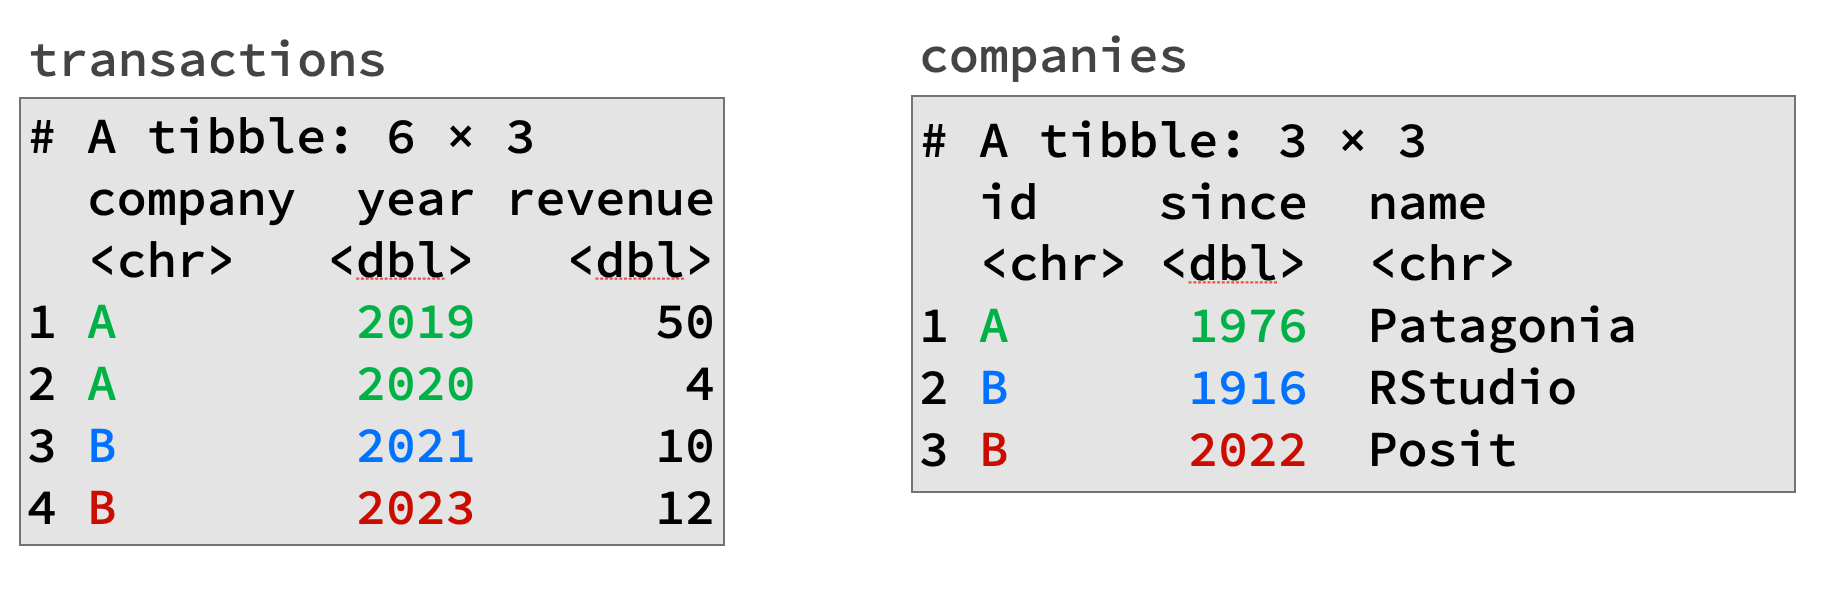
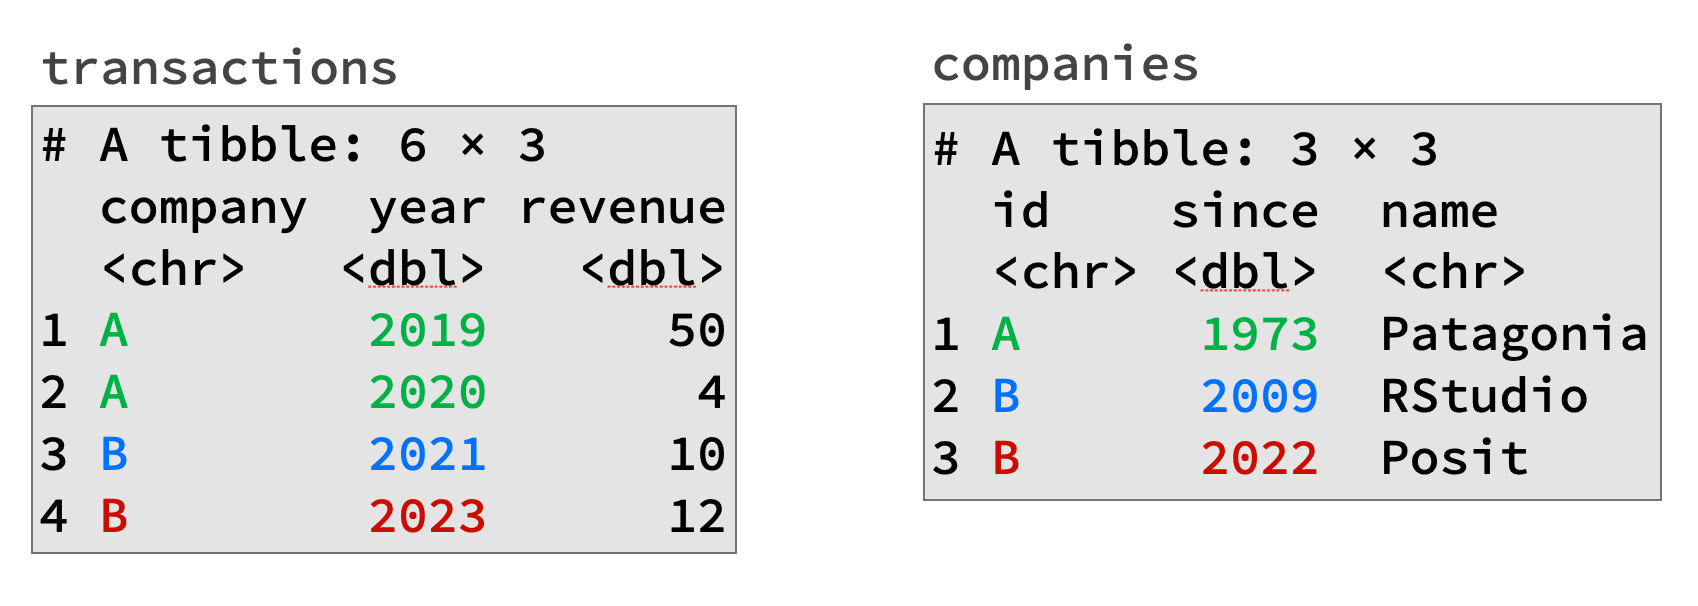
Another round of revisions

diff --git a/content/blog/dplyr-1-1-0-joins/index.md b/content/blog/dplyr-1-1-0-joins/index.md
@@ -2,38 +2,24 @@
 output: hugodown::hugo_document
 slug: dplyr-1-1-0-joins
 title: "dplyr 1.1.0: Joins"
-date: 2023-01-30
+date: 2023-01-31
 author: Davis Vaughan
 description: >
     In dplyr 1.1.0, joins have been greatly reworked, introducing: a new way to
     specify join columns, various new types of joins, and two new quality
     control arguments.
 photo:
-  url: https://unsplash.com/photos/n6vS3xlnsCc
-  author: Kelley Bozarth
-# one of: "deep-dive", "learn", "package", "programming", "roundup", or "other"
+  url: https://unsplash.com/photos/Cecb0_8Hx-o
+  author: Duy Pham
 categories: [package] 
-tags: []
+tags: [dplyr]
 editor_options: 
   chunk_output_type: console
-rmd_hash: 7cff9ace70674e94
+rmd_hash: 9b31d03464d70f53
 
 ---
 
-<!--
-TODO:
-* [ ] Look over / edit the post's title in the yaml
-* [ ] Edit (or delete) the description; note this appears in the Twitter card
-* [ ] Pick category and tags (see existing with [`hugodown::tidy_show_meta()`](https://rdrr.io/pkg/hugodown/man/use_tidy_post.html))
-* [ ] Find photo & update yaml metadata
-* [ ] Create `thumbnail-sq.jpg`; height and width should be equal
-* [ ] Create `thumbnail-wd.jpg`; width should be >5x height
-* [ ] [`hugodown::use_tidy_thumbnails()`](https://rdrr.io/pkg/hugodown/man/use_tidy_post.html)
-* [ ] Add intro sentence, e.g. the standard tagline for the package
-* [ ] [`usethis::use_tidy_thanks()`](https://rdrr.io/pkg/usethis/man/use_tidy_thanks.html)
--->
-
-dplyr 1.1.0 is out now! In this post, we will discuss various new updates to joins.
+dplyr 1.1.0 is out now! This is post 1 of 4 detailing some of the new features in this release. In this post, we will discuss various new updates to dplyr's joins.
 
 You can install it from CRAN with:
 
@@ -69,7 +55,6 @@ Consider the following two tables, `transactions` and `companies`. `transactions
 <span><span class='c'>#&gt; <span style='color: #555555;'>3</span> B        <span style='text-decoration: underline;'>2</span>021      10</span></span>
 <span><span class='c'>#&gt; <span style='color: #555555;'>4</span> B        <span style='text-decoration: underline;'>2</span>023      12</span></span>
 <span></span><span></span>
-<span><span class='c'># TODO: Figure out RStudio initial year</span></span>
 <span><span class='nv'>companies</span> <span class='o'>&lt;-</span> <span class='nf'><a href='https://rdrr.io/pkg/tibble/man/tibble.html'>tibble</a></span><span class='o'>(</span></span>
 <span>  id <span class='o'>=</span> <span class='nf'><a href='https://rdrr.io/r/base/c.html'>c</a></span><span class='o'>(</span><span class='s'>"A"</span>, <span class='s'>"B"</span><span class='o'>)</span>,</span>
 <span>  name <span class='o'>=</span> <span class='nf'><a href='https://rdrr.io/r/base/c.html'>c</a></span><span class='o'>(</span><span class='s'>"Patagonia"</span>, <span class='s'>"RStudio"</span><span class='o'>)</span></span>
@@ -137,10 +122,9 @@ To make things a little more interesting, we'll add one more column to `companie
 
 <div class="highlight">
 
-<pre class='chroma'><code class='language-r' data-lang='r'><span><span class='c'># TODO: Figure out RStudio and Patagonia initial year</span></span>
-<span><span class='nv'>companies</span> <span class='o'>&lt;-</span> <span class='nf'><a href='https://rdrr.io/pkg/tibble/man/tibble.html'>tibble</a></span><span class='o'>(</span></span>
+<pre class='chroma'><code class='language-r' data-lang='r'><span><span class='nv'>companies</span> <span class='o'>&lt;-</span> <span class='nf'><a href='https://rdrr.io/pkg/tibble/man/tibble.html'>tibble</a></span><span class='o'>(</span></span>
 <span>  id <span class='o'>=</span> <span class='nf'><a href='https://rdrr.io/r/base/c.html'>c</a></span><span class='o'>(</span><span class='s'>"A"</span>, <span class='s'>"B"</span>, <span class='s'>"B"</span><span class='o'>)</span>,</span>
-<span>  since <span class='o'>=</span> <span class='nf'><a href='https://rdrr.io/r/base/c.html'>c</a></span><span class='o'>(</span><span class='m'>1976</span>, <span class='m'>2010</span>, <span class='m'>2022</span><span class='o'>)</span>,</span>
+<span>  since <span class='o'>=</span> <span class='nf'><a href='https://rdrr.io/r/base/c.html'>c</a></span><span class='o'>(</span><span class='m'>1973</span>, <span class='m'>2009</span>, <span class='m'>2022</span><span class='o'>)</span>,</span>
 <span>  name <span class='o'>=</span> <span class='nf'><a href='https://rdrr.io/r/base/c.html'>c</a></span><span class='o'>(</span><span class='s'>"Patagonia"</span>, <span class='s'>"RStudio"</span>, <span class='s'>"Posit"</span><span class='o'>)</span></span>
 <span><span class='o'>)</span></span>
 <span></span>
@@ -148,14 +132,14 @@ To make things a little more interesting, we'll add one more column to `companie
 <span><span class='c'>#&gt; <span style='color: #555555;'># A tibble: 3 × 3</span></span></span>
 <span><span class='c'>#&gt;   id    since name     </span></span>
 <span><span class='c'>#&gt;   <span style='color: #555555; font-style: italic;'>&lt;chr&gt;</span> <span style='color: #555555; font-style: italic;'>&lt;dbl&gt;</span> <span style='color: #555555; font-style: italic;'>&lt;chr&gt;</span>    </span></span>
-<span><span class='c'>#&gt; <span style='color: #555555;'>1</span> A      <span style='text-decoration: underline;'>1</span>976 Patagonia</span></span>
-<span><span class='c'>#&gt; <span style='color: #555555;'>2</span> B      <span style='text-decoration: underline;'>2</span>010 RStudio  </span></span>
+<span><span class='c'>#&gt; <span style='color: #555555;'>1</span> A      <span style='text-decoration: underline;'>1</span>973 Patagonia</span></span>
+<span><span class='c'>#&gt; <span style='color: #555555;'>2</span> B      <span style='text-decoration: underline;'>2</span>009 RStudio  </span></span>
 <span><span class='c'>#&gt; <span style='color: #555555;'>3</span> B      <span style='text-decoration: underline;'>2</span>022 Posit</span></span>
 <span></span></code></pre>
 
 </div>
 
-This table now also tracks name changes that have happened over the course of a company's history. In 2022, we changed our name from RStudio to Posit, so we've tracked that as an additional row in our dataset. Note that both RStudio and Posit are given an `id` of `"B"`, which links back to the `transactions` table.
+This table now also tracks name changes that have happened over the course of a company's history. In 2022, we changed our name from RStudio to Posit, so we've tracked that as an additional row in our dataset. Note that both RStudio and Posit are given an `id` of `B`, which links back to the `transactions` table.
 
 If we were to join these two tables together, ideally we'd bring over the name that was in effect when the transaction took place. For example, for the transaction in 2021, the company was still RStudio, so ideally we'd only match up against the RStudio row in `companies`. If we colored the expected matches, they'd look something like this:
 
@@ -176,17 +160,17 @@ How can we do this? We can try the same join from before, but we won't like the 
 <span><span class='c'>#&gt; <span style='color: #555555;'># A tibble: 6 × 5</span></span></span>
 <span><span class='c'>#&gt;   company  year revenue since name     </span></span>
 <span><span class='c'>#&gt;   <span style='color: #555555; font-style: italic;'>&lt;chr&gt;</span>   <span style='color: #555555; font-style: italic;'>&lt;dbl&gt;</span>   <span style='color: #555555; font-style: italic;'>&lt;dbl&gt;</span> <span style='color: #555555; font-style: italic;'>&lt;dbl&gt;</span> <span style='color: #555555; font-style: italic;'>&lt;chr&gt;</span>    </span></span>
-<span><span class='c'>#&gt; <span style='color: #555555;'>1</span> A        <span style='text-decoration: underline;'>2</span>019      50  <span style='text-decoration: underline;'>1</span>976 Patagonia</span></span>
-<span><span class='c'>#&gt; <span style='color: #555555;'>2</span> A        <span style='text-decoration: underline;'>2</span>020       4  <span style='text-decoration: underline;'>1</span>976 Patagonia</span></span>
-<span><span class='c'>#&gt; <span style='color: #555555;'>3</span> B        <span style='text-decoration: underline;'>2</span>021      10  <span style='text-decoration: underline;'>2</span>010 RStudio  </span></span>
+<span><span class='c'>#&gt; <span style='color: #555555;'>1</span> A        <span style='text-decoration: underline;'>2</span>019      50  <span style='text-decoration: underline;'>1</span>973 Patagonia</span></span>
+<span><span class='c'>#&gt; <span style='color: #555555;'>2</span> A        <span style='text-decoration: underline;'>2</span>020       4  <span style='text-decoration: underline;'>1</span>973 Patagonia</span></span>
+<span><span class='c'>#&gt; <span style='color: #555555;'>3</span> B        <span style='text-decoration: underline;'>2</span>021      10  <span style='text-decoration: underline;'>2</span>009 RStudio  </span></span>
 <span><span class='c'>#&gt; <span style='color: #555555;'>4</span> B        <span style='text-decoration: underline;'>2</span>021      10  <span style='text-decoration: underline;'>2</span>022 Posit    </span></span>
-<span><span class='c'>#&gt; <span style='color: #555555;'>5</span> B        <span style='text-decoration: underline;'>2</span>023      12  <span style='text-decoration: underline;'>2</span>010 RStudio  </span></span>
+<span><span class='c'>#&gt; <span style='color: #555555;'>5</span> B        <span style='text-decoration: underline;'>2</span>023      12  <span style='text-decoration: underline;'>2</span>009 RStudio  </span></span>
 <span><span class='c'>#&gt; <span style='color: #555555;'>6</span> B        <span style='text-decoration: underline;'>2</span>023      12  <span style='text-decoration: underline;'>2</span>022 Posit</span></span>
 <span></span></code></pre>
 
 </div>
 
-Company `A` matches correctly, but since we only joined on the company id, we get *multiple matches* for each of company `B`'s transactions and end up with more rows than we started with. This is a problem, as we were expecting a 1:1 match for each row in `transactions`. Multiple matches in equality joins like this one are typically unexpected -- in fact, many people don't even know this is possible even though it is technically default SQL behavior -- so we've also added a new warning to alert you when this happens. If multiple matches are expected, explicitly set `multiple = "all"` to silence this warning. If multiple matches *aren't* expected, you can also set `multiple = "error"` to immediately halt the analysis. We expect this will be useful as a quality control check for production code where you might rerun analyses with new data on a rolling basis.
+Company `A` matches correctly, but since we only joined on the company id, we get *multiple matches* for each of company `B`'s transactions and end up with more rows than we started with. This is a problem, as we were expecting a 1:1 match for each row in `transactions`. Multiple matches in equality joins like this one are typically unexpected -- in fact, many people don't even know this is possible even though it is technically default SQL behavior -- so we've also added a new warning to alert you when this happens. If multiple matches are expected, explicitly set `multiple = "all"` to silence this warning. This also serves as a code "sign post" for future readers of your code to let them know that this is a join that is expected to increase the number of rows in the data. If multiple matches *aren't* expected, you can also set `multiple = "error"` to immediately halt the analysis. We expect this will be useful as a quality control check for production code where you might rerun analyses with new data on a rolling basis.
 
 To actually fix this issue, we'll need to expand our join specification to include another condition. Let's zoom in to just 2021:
 
@@ -196,18 +180,18 @@ To actually fix this issue, we'll need to expand our join specification to inclu
 <span><span class='c'>#&gt; <span style='color: #555555;'># A tibble: 2 × 5</span></span></span>
 <span><span class='c'>#&gt;   company  year revenue since name   </span></span>
 <span><span class='c'>#&gt;   <span style='color: #555555; font-style: italic;'>&lt;chr&gt;</span>   <span style='color: #555555; font-style: italic;'>&lt;dbl&gt;</span>   <span style='color: #555555; font-style: italic;'>&lt;dbl&gt;</span> <span style='color: #555555; font-style: italic;'>&lt;dbl&gt;</span> <span style='color: #555555; font-style: italic;'>&lt;chr&gt;</span>  </span></span>
-<span><span class='c'>#&gt; <span style='color: #555555;'>1</span> B        <span style='text-decoration: underline;'>2</span>021      10  <span style='text-decoration: underline;'>2</span>010 RStudio</span></span>
+<span><span class='c'>#&gt; <span style='color: #555555;'>1</span> B        <span style='text-decoration: underline;'>2</span>021      10  <span style='text-decoration: underline;'>2</span>009 RStudio</span></span>
 <span><span class='c'>#&gt; <span style='color: #555555;'>2</span> B        <span style='text-decoration: underline;'>2</span>021      10  <span style='text-decoration: underline;'>2</span>022 Posit</span></span>
 <span></span></code></pre>
 
 </div>
 
-In this case, we wanted a match with RStudio, but not with Posit (because the name hasn't changed yet). One way to express this is by using the `year` and `since` columns to state that you only want a match if the transaction `year` occurred *after* a name change:
+We want to retain the match with RStudio, but not with Posit (because the name hasn't changed yet). One way to express this is by using the `year` and `since` columns to state that you only want a match if the transaction `year` occurred *after* a name change:
 
 <div class="highlight">
 
 <pre class='chroma'><code class='language-r' data-lang='r'><span><span class='c'># `year[i] &gt;= since`?</span></span>
-<span><span class='m'>2021</span> <span class='o'>&gt;=</span> <span class='m'>2010</span></span>
+<span><span class='m'>2021</span> <span class='o'>&gt;=</span> <span class='m'>2009</span></span>
 <span><span class='c'>#&gt; [1] TRUE</span></span>
 <span></span><span><span class='m'>2021</span> <span class='o'>&gt;=</span> <span class='m'>2022</span></span>
 <span><span class='c'>#&gt; [1] FALSE</span></span>
@@ -215,7 +199,7 @@ In this case, we wanted a match with RStudio, but not with Posit (because the na
 
 </div>
 
-These expressions return results that correspond with the matches we actually want for 2021. With [`join_by()`](https://rdrr.io/pkg/dplyr/man/join_by.html), we can now express this inequality directly inside the join specification:
+Because [`join_by()`](https://rdrr.io/pkg/dplyr/man/join_by.html) accepts expressions, we can express this inequality directly inside the join specification:
 
 <div class="highlight">
 
@@ -234,10 +218,10 @@ These expressions return results that correspond with the matches we actually wa
 <span><span class='c'>#&gt; <span style='color: #555555;'># A tibble: 5 × 5</span></span></span>
 <span><span class='c'>#&gt;   company  year revenue since name     </span></span>
 <span><span class='c'>#&gt;   <span style='color: #555555; font-style: italic;'>&lt;chr&gt;</span>   <span style='color: #555555; font-style: italic;'>&lt;dbl&gt;</span>   <span style='color: #555555; font-style: italic;'>&lt;dbl&gt;</span> <span style='color: #555555; font-style: italic;'>&lt;dbl&gt;</span> <span style='color: #555555; font-style: italic;'>&lt;chr&gt;</span>    </span></span>
-<span><span class='c'>#&gt; <span style='color: #555555;'>1</span> A        <span style='text-decoration: underline;'>2</span>019      50  <span style='text-decoration: underline;'>1</span>976 Patagonia</span></span>
-<span><span class='c'>#&gt; <span style='color: #555555;'>2</span> A        <span style='text-decoration: underline;'>2</span>020       4  <span style='text-decoration: underline;'>1</span>976 Patagonia</span></span>
-<span><span class='c'>#&gt; <span style='color: #555555;'>3</span> B        <span style='text-decoration: underline;'>2</span>021      10  <span style='text-decoration: underline;'>2</span>010 RStudio  </span></span>
-<span><span class='c'>#&gt; <span style='color: #555555;'>4</span> B        <span style='text-decoration: underline;'>2</span>023      12  <span style='text-decoration: underline;'>2</span>010 RStudio  </span></span>
+<span><span class='c'>#&gt; <span style='color: #555555;'>1</span> A        <span style='text-decoration: underline;'>2</span>019      50  <span style='text-decoration: underline;'>1</span>973 Patagonia</span></span>
+<span><span class='c'>#&gt; <span style='color: #555555;'>2</span> A        <span style='text-decoration: underline;'>2</span>020       4  <span style='text-decoration: underline;'>1</span>973 Patagonia</span></span>
+<span><span class='c'>#&gt; <span style='color: #555555;'>3</span> B        <span style='text-decoration: underline;'>2</span>021      10  <span style='text-decoration: underline;'>2</span>009 RStudio  </span></span>
+<span><span class='c'>#&gt; <span style='color: #555555;'>4</span> B        <span style='text-decoration: underline;'>2</span>023      12  <span style='text-decoration: underline;'>2</span>009 RStudio  </span></span>
 <span><span class='c'>#&gt; <span style='color: #555555;'>5</span> B        <span style='text-decoration: underline;'>2</span>023      12  <span style='text-decoration: underline;'>2</span>022 Posit</span></span>
 <span></span></code></pre>
 
@@ -245,12 +229,12 @@ These expressions return results that correspond with the matches we actually wa
 
 This eliminated the 2021 match to Posit, as expected! This type of join is known as an *inequality join*, i.e. it involves at least one join expression containing one of the following inequality conditions: `>=`, `>`, `<=`, or `<`.
 
-However, we still have 2 matches corresponding to the 2023 year. In this case we only wanted the match to Posit. The current result does make sense if we try to run the same row-by-row analysis as before:
+However, we still have 2 matches corresponding to the 2023 year. In this case, we only wanted the match to Posit. We can understand why we are still getting multiple matches here by running the same row-by-row analysis as before:
 
 <div class="highlight">
 
 <pre class='chroma'><code class='language-r' data-lang='r'><span><span class='c'># `year[i] &gt;= since`? Both are true!</span></span>
-<span><span class='m'>2023</span> <span class='o'>&gt;=</span> <span class='m'>2010</span></span>
+<span><span class='m'>2023</span> <span class='o'>&gt;=</span> <span class='m'>2009</span></span>
 <span><span class='c'>#&gt; [1] TRUE</span></span>
 <span></span><span><span class='m'>2023</span> <span class='o'>&gt;=</span> <span class='m'>2022</span></span>
 <span><span class='c'>#&gt; [1] TRUE</span></span>
@@ -262,9 +246,23 @@ To remove the last problematic match of the 2023 transaction to the RStudio name
 
 ## Rolling joins
 
-Inequality conditions like `year >= since` are powerful, but since the condition is only bounded on one side it is common for them to return a large number of matches. Since multiple matches are the typical case with inequality joins, we don't get a warning like with the equality join, but we clearly still haven't gotten the join right.
+Inequality conditions like `year >= since` are powerful, but since the condition is only bounded on one side it is common for them to return a large number of matches. Since multiple matches are the typical case with inequality joins, we don't get a warning like with the equality join, but we clearly still haven't gotten the join right. As a reminder, here are where we still have too many matches:
 
-We need a way to filter down the matches returned from `year >= since` to only the most recent name change. In other words, we prefer the Posit match over the RStudio match because 2022 is *closer* to the transaction year of 2023 than 2010 is. We can express this in [`join_by()`](https://rdrr.io/pkg/dplyr/man/join_by.html) by using a helper named `closest()`.
+<div class="highlight">
+
+<pre class='chroma'><code class='language-r' data-lang='r'><span><span class='nv'>transactions</span> <span class='o'>|&gt;</span></span>
+<span>  <span class='nf'><a href='https://rdrr.io/pkg/dplyr/man/mutate-joins.html'>inner_join</a></span><span class='o'>(</span><span class='nv'>companies</span>, <span class='nf'><a href='https://rdrr.io/pkg/dplyr/man/join_by.html'>join_by</a></span><span class='o'>(</span><span class='nv'>company</span> <span class='o'>==</span> <span class='nv'>id</span>, <span class='nv'>year</span> <span class='o'>&gt;=</span> <span class='nv'>since</span><span class='o'>)</span><span class='o'>)</span> <span class='o'>|&gt;</span></span>
+<span>  <span class='nf'><a href='https://rdrr.io/pkg/dplyr/man/filter.html'>filter</a></span><span class='o'>(</span><span class='nv'>company</span> <span class='o'>==</span> <span class='s'>"B"</span>, <span class='nv'>year</span> <span class='o'>==</span> <span class='m'>2023</span><span class='o'>)</span></span>
+<span><span class='c'>#&gt; <span style='color: #555555;'># A tibble: 2 × 5</span></span></span>
+<span><span class='c'>#&gt;   company  year revenue since name   </span></span>
+<span><span class='c'>#&gt;   <span style='color: #555555; font-style: italic;'>&lt;chr&gt;</span>   <span style='color: #555555; font-style: italic;'>&lt;dbl&gt;</span>   <span style='color: #555555; font-style: italic;'>&lt;dbl&gt;</span> <span style='color: #555555; font-style: italic;'>&lt;dbl&gt;</span> <span style='color: #555555; font-style: italic;'>&lt;chr&gt;</span>  </span></span>
+<span><span class='c'>#&gt; <span style='color: #555555;'>1</span> B        <span style='text-decoration: underline;'>2</span>023      12  <span style='text-decoration: underline;'>2</span>009 RStudio</span></span>
+<span><span class='c'>#&gt; <span style='color: #555555;'>2</span> B        <span style='text-decoration: underline;'>2</span>023      12  <span style='text-decoration: underline;'>2</span>022 Posit</span></span>
+<span></span></code></pre>
+
+</div>
+
+We need a way to filter down the matches returned from `year >= since` to only the most recent name change. In other words, we prefer the Posit match over the RStudio match because 2022 is *closer* to the transaction year of 2023 than 2009 is. We can express this in [`join_by()`](https://rdrr.io/pkg/dplyr/man/join_by.html) by using a helper named `closest()`.
 
 <div class="highlight">
 
@@ -273,9 +271,9 @@ We need a way to filter down the matches returned from `year >= since` to only t
 <span><span class='c'>#&gt; <span style='color: #555555;'># A tibble: 4 × 5</span></span></span>
 <span><span class='c'>#&gt;   company  year revenue since name     </span></span>
 <span><span class='c'>#&gt;   <span style='color: #555555; font-style: italic;'>&lt;chr&gt;</span>   <span style='color: #555555; font-style: italic;'>&lt;dbl&gt;</span>   <span style='color: #555555; font-style: italic;'>&lt;dbl&gt;</span> <span style='color: #555555; font-style: italic;'>&lt;dbl&gt;</span> <span style='color: #555555; font-style: italic;'>&lt;chr&gt;</span>    </span></span>
-<span><span class='c'>#&gt; <span style='color: #555555;'>1</span> A        <span style='text-decoration: underline;'>2</span>019      50  <span style='text-decoration: underline;'>1</span>976 Patagonia</span></span>
-<span><span class='c'>#&gt; <span style='color: #555555;'>2</span> A        <span style='text-decoration: underline;'>2</span>020       4  <span style='text-decoration: underline;'>1</span>976 Patagonia</span></span>
-<span><span class='c'>#&gt; <span style='color: #555555;'>3</span> B        <span style='text-decoration: underline;'>2</span>021      10  <span style='text-decoration: underline;'>2</span>010 RStudio  </span></span>
+<span><span class='c'>#&gt; <span style='color: #555555;'>1</span> A        <span style='text-decoration: underline;'>2</span>019      50  <span style='text-decoration: underline;'>1</span>973 Patagonia</span></span>
+<span><span class='c'>#&gt; <span style='color: #555555;'>2</span> A        <span style='text-decoration: underline;'>2</span>020       4  <span style='text-decoration: underline;'>1</span>973 Patagonia</span></span>
+<span><span class='c'>#&gt; <span style='color: #555555;'>3</span> B        <span style='text-decoration: underline;'>2</span>021      10  <span style='text-decoration: underline;'>2</span>009 RStudio  </span></span>
 <span><span class='c'>#&gt; <span style='color: #555555;'>4</span> B        <span style='text-decoration: underline;'>2</span>023      12  <span style='text-decoration: underline;'>2</span>022 Posit</span></span>
 <span></span></code></pre>
 
@@ -289,7 +287,7 @@ I mentioned earlier that we expected a 1:1 match between `transactions` and `com
 
 <div class="highlight">
 
-<pre class='chroma'><code class='language-r' data-lang='r'><span><span class='nv'>transactions</span> <span class='o'>&lt;-</span> <span class='nv'>transactions</span> <span class='o'><a href='https://rdrr.io/pkg/magrittr/man/pipe.html'>%&gt;%</a></span></span>
+<pre class='chroma'><code class='language-r' data-lang='r'><span><span class='nv'>transactions</span> <span class='o'>&lt;-</span> <span class='nv'>transactions</span> <span class='o'>|&gt;</span></span>
 <span>  <span class='nf'>tibble</span><span class='nf'>::</span><span class='nf'><a href='https://rdrr.io/pkg/tibble/man/add_row.html'>add_row</a></span><span class='o'>(</span>company <span class='o'>=</span> <span class='s'>"C"</span>, year <span class='o'>=</span> <span class='m'>2023</span>, revenue <span class='o'>=</span> <span class='m'>15</span><span class='o'>)</span></span>
 <span></span>
 <span><span class='nv'>transactions</span></span>
@@ -315,9 +313,9 @@ I mentioned earlier that we expected a 1:1 match between `transactions` and `com
 <span><span class='c'>#&gt; <span style='color: #555555;'># A tibble: 4 × 5</span></span></span>
 <span><span class='c'>#&gt;   company  year revenue since name     </span></span>
 <span><span class='c'>#&gt;   <span style='color: #555555; font-style: italic;'>&lt;chr&gt;</span>   <span style='color: #555555; font-style: italic;'>&lt;dbl&gt;</span>   <span style='color: #555555; font-style: italic;'>&lt;dbl&gt;</span> <span style='color: #555555; font-style: italic;'>&lt;dbl&gt;</span> <span style='color: #555555; font-style: italic;'>&lt;chr&gt;</span>    </span></span>
-<span><span class='c'>#&gt; <span style='color: #555555;'>1</span> A        <span style='text-decoration: underline;'>2</span>019      50  <span style='text-decoration: underline;'>1</span>976 Patagonia</span></span>
-<span><span class='c'>#&gt; <span style='color: #555555;'>2</span> A        <span style='text-decoration: underline;'>2</span>020       4  <span style='text-decoration: underline;'>1</span>976 Patagonia</span></span>
-<span><span class='c'>#&gt; <span style='color: #555555;'>3</span> B        <span style='text-decoration: underline;'>2</span>021      10  <span style='text-decoration: underline;'>2</span>010 RStudio  </span></span>
+<span><span class='c'>#&gt; <span style='color: #555555;'>1</span> A        <span style='text-decoration: underline;'>2</span>019      50  <span style='text-decoration: underline;'>1</span>973 Patagonia</span></span>
+<span><span class='c'>#&gt; <span style='color: #555555;'>2</span> A        <span style='text-decoration: underline;'>2</span>020       4  <span style='text-decoration: underline;'>1</span>973 Patagonia</span></span>
+<span><span class='c'>#&gt; <span style='color: #555555;'>3</span> B        <span style='text-decoration: underline;'>2</span>021      10  <span style='text-decoration: underline;'>2</span>009 RStudio  </span></span>
 <span><span class='c'>#&gt; <span style='color: #555555;'>4</span> B        <span style='text-decoration: underline;'>2</span>023      12  <span style='text-decoration: underline;'>2</span>022 Posit</span></span>
 <span></span></code></pre>
 
@@ -353,9 +351,9 @@ If you've been questioning why I've been using an [`inner_join()`](https://rdrr.
 <span><span class='c'>#&gt; <span style='color: #555555;'># A tibble: 5 × 5</span></span></span>
 <span><span class='c'>#&gt;   company  year revenue since name     </span></span>
 <span><span class='c'>#&gt;   <span style='color: #555555; font-style: italic;'>&lt;chr&gt;</span>   <span style='color: #555555; font-style: italic;'>&lt;dbl&gt;</span>   <span style='color: #555555; font-style: italic;'>&lt;dbl&gt;</span> <span style='color: #555555; font-style: italic;'>&lt;dbl&gt;</span> <span style='color: #555555; font-style: italic;'>&lt;chr&gt;</span>    </span></span>
-<span><span class='c'>#&gt; <span style='color: #555555;'>1</span> A        <span style='text-decoration: underline;'>2</span>019      50  <span style='text-decoration: underline;'>1</span>976 Patagonia</span></span>
-<span><span class='c'>#&gt; <span style='color: #555555;'>2</span> A        <span style='text-decoration: underline;'>2</span>020       4  <span style='text-decoration: underline;'>1</span>976 Patagonia</span></span>
-<span><span class='c'>#&gt; <span style='color: #555555;'>3</span> B        <span style='text-decoration: underline;'>2</span>021      10  <span style='text-decoration: underline;'>2</span>010 RStudio  </span></span>
+<span><span class='c'>#&gt; <span style='color: #555555;'>1</span> A        <span style='text-decoration: underline;'>2</span>019      50  <span style='text-decoration: underline;'>1</span>973 Patagonia</span></span>
+<span><span class='c'>#&gt; <span style='color: #555555;'>2</span> A        <span style='text-decoration: underline;'>2</span>020       4  <span style='text-decoration: underline;'>1</span>973 Patagonia</span></span>
+<span><span class='c'>#&gt; <span style='color: #555555;'>3</span> B        <span style='text-decoration: underline;'>2</span>021      10  <span style='text-decoration: underline;'>2</span>009 RStudio  </span></span>
 <span><span class='c'>#&gt; <span style='color: #555555;'>4</span> B        <span style='text-decoration: underline;'>2</span>023      12  <span style='text-decoration: underline;'>2</span>022 Posit    </span></span>
 <span><span class='c'>#&gt; <span style='color: #555555;'>5</span> C        <span style='text-decoration: underline;'>2</span>023      15    <span style='color: #BB0000;'>NA</span> <span style='color: #BB0000;'>NA</span></span></span>
 <span></span></code></pre>
